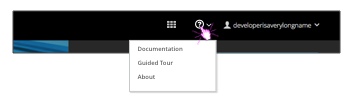
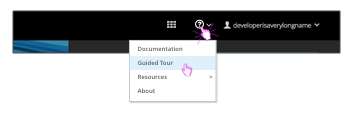
Updates to Tour docs based on comments

diff --git a/pattern-library/communication/tour/design/design.md b/pattern-library/communication/tour/design/design.md
@@ -1,14 +1,15 @@
 # Tour
 - When a tour is available, a button or link should be displayed for users to manually start it. Labels should be specific if there are multiple tours available.
 - Tours can include any number of steps, but the recommendation is to stay between 3-15 steps.
-- Every step displays a bubble with the step number, name, and description of what is being highlighted.
+
+- Every step displays a Bubble with the step number, name, description of highlighted area and button bar.
 
 ![tour bubble](img/Tour-00.png)
 
-1. **Top Bar:** A light grey bar sits across the top of the tour bubble and includes the following items vertically aligned:  
+1. **Top Bar:** A light grey bar sits across the top of the Tour Bubble and includes the following items vertically aligned:  
   - A **Step Number** to denote where the user currently is along the tour.
   - A **Step Name** to highlight the topic of the particular step.
-  - A **Cancel** or close button, allowing the user to end the tour at any point.
+  - A **Cancel** or Close button, to allow the user to end the tour at any point.
 2. **Pointer:** The pointer is used to identify a specific area in the UI.
 3. **Description:** The description should include key details pertaining to the highlighted area.
 4. **Actions:**
@@ -32,5 +33,6 @@ Click Back or Next to continue through the tour:
 - Tours can be automatically triggered for new users to step through the UI on their initial login. Automatic tours are recommended for first time use only.
 - In some cases, more than one tour may exist.
 - Step numbers are dynamic. In some cases, users may not have access to view all steps or all areas of the UI, so the numbers should update accordingly for each tour instance.
-- Add guided tours to the Help menu in the masthead when available:
-  ![template](img/Navbar-1.png)
+- Add guided tours to the Help menu in the [Masthead](http://www.patternfly.org/pattern-library/application-framework/masthead/) when available.
+
+  ![template](img/Navbar-1B.png)

diff --git a/pattern-library/communication/tour/design/overview.md b/pattern-library/communication/tour/design/overview.md
@@ -1,9 +1,4 @@
 # Tour
-Tours are helpful tools provided to users as an introduction to new interfaces or new use cases they may not be familiar with. A tour will take users step by step, pointing out specific areas of the interface. Each step of a tour will include the step number, name, and description of what is being highlighted.
-
-![Tour Layout](img/Tour-00B.png)
-
-## Example
-The following is an example of a single step within a guided tour:
+Tours provide users an introduction to new interfaces or new use cases they may not be familiar with. A tour will take users step by step, pointing out specific areas of the interface. Each step of a tour will include the step number, name, and description of what is being highlighted.
 
 ![Tour](img/Tour-03.png)
